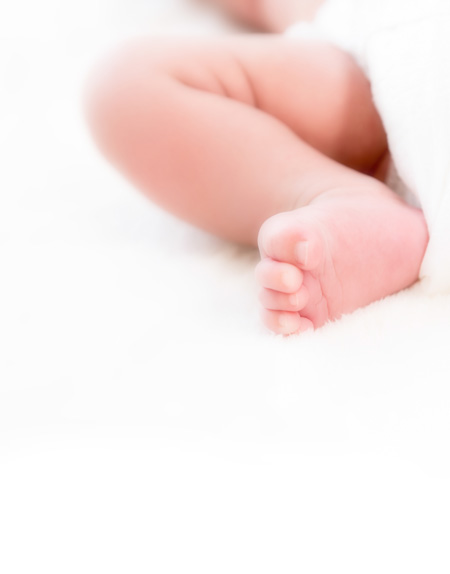
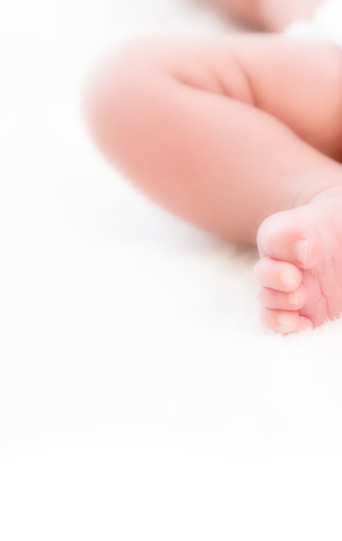
client req changes

Changed region(s): [[0.1754, 0.0, 1.0, 0.6211]]

diff --git a/resources/assets/sass/front/pages/_home.scss b/resources/assets/sass/front/pages/_home.scss
@@ -1,13 +1,14 @@
 .home-banner {
   background-image: url(./images/banner.jpg);
-  background-size: cover;
+  background-size: auto;
+  background-repeat: no-repeat;
+  background-position-y: 0;
+  background-position-x: 100%;
 
   @include respond-to(small) {
     background-image: url(./images/banner_mobile.jpg);
-    background-size: auto;
-    background-repeat: no-repeat;
     background-position-y: 60px;
-    background-position-x: -230%;
+    background-position-x: 100%;
   }
 }
 

diff --git a/resources/views/front/testimonials/page.blade.php b/resources/views/front/testimonials/page.blade.php
@@ -14,14 +14,14 @@
 
 @section('content')
     <h2 class="f2 f1-ns colour-p strong-type tc mt5 mb2 ttu">Testimonials</h2>
-    <p class="ph3 body-type b colour-p tc f5 f4-ns mt4">I could not be more proud and thankful of my clients!</p>
+    <p class="w-90 mw8 center lh-copy body-type b colour-p tc f5 f4-ns mt4">It is an honour and a privilege to be invited to share in the precious time of preparing for birth and parenthood with parents.  Thank you to my valued clients for sharing your thoughts on my involvement in your preparation for all things birth and beyond!</p>
     <article class="fade-in-up an-del1 mv4 w-90 mw8 center pa4 bgc-light body-type flex">
-        <div class="dn w-40 flex-ns justify-center items-center">
+        <div class="dn w-40 flex-ns justify-center items-start pt2">
             <img src="/images/testimonials.jpg" alt="A client in the birthing process" width="400px" class="db center">
         </div>
         <div class="w-100 w-60-ns pl0 pl4-ns flex-auto">
-            <p class="colour-p f5 f4-ns lh-copy mt0">We highly recommend Melody. She is an incredible doula who genuinely cares for others and wants to help families to have their wishes for their pregnancy and birth become a reality.</p>
-            <p class="colour-p f5 f4-ns lh-copy i tr mb0">&mdash; Tracy and Rob Oliver</p>
+            <p class="colour-p f5 f4-ns lh-copy mt0">I cannot recommend Mel highly enough. She enabled us to have the most positive birth after having had a previously traumatic experience. Mel is extremely knowledgeable, experienced and committed. During our 3-day labour at home she provided the support that both my husband and I needed giving us the faith to go on. Mel was hands on with practical help and most memorably coached my husband giving him the confidence and knowledge to support me perfectly throughout. I credit Mel with enabling us to have a wonderful home water birth after previous caesarean and what we believed was the best start to life for our son.</p>
+            <p class="colour-p f5 f4-ns lh-copy i tr mb0">&mdash; Angela Holmes</p>
         </div>
     </article>
     <article class="fade-in-up an-del2 mv4 w-90 mw8 center pa4 bgc-light body-type">
@@ -45,8 +45,8 @@
         <p class="colour-p f5 f4-ns lh-copy i tr mb0">&mdash; CF</p>
     </article>
     <article class="fade-in-up an-del7 mv4 w-90 mw8 center pa4 bgc-light body-type">
-        <p class="colour-p f5 f4-ns lh-copy mt0">I cannot recommend Mel highly enough. She enabled us to have the most positive birth after having had a previously traumatic experience. Mel is extremely knowledgeable, experienced and committed. During our 3-day labour at home she provided the support that both my husband and I needed giving us the faith to go on. Mel was hands on with practical help and most memorably coached my husband giving him the confidence and knowledge to support me perfectly throughout. I credit Mel with enabling us to have a wonderful home water birth after previous caesarean and what we believed was the best start to life for our son.</p>
-        <p class="colour-p f5 f4-ns lh-copy i tr mb0">&mdash; Angela Holmes</p>
+        <p class="colour-p f5 f4-ns lh-copy mt0">We highly recommend Melody. She is an incredible doula who genuinely cares for others and wants to help families to have their wishes for their pregnancy and birth become a reality.</p>
+        <p class="colour-p f5 f4-ns lh-copy i tr mb0">&mdash; Tracy and Rob Oliver</p>
     </article>
     <article class="fade-in-up an-del8 mt4 w-90 mw8 center pa4 bgc-light body-type mb6">
         <p class="colour-p f5 f4-ns lh-copy mt0">Mel was with us for approximately 40 hours over ten days.  She was always at the end of the phone if I needed her - which was a lot! Not just with breastfeeding, but with everything that came with becoming a mum again. Helping me soon after the twins were born, through the baby blues, making sure I ate properly, being an advocate for me, helping me to focus on positives, generally lifting my spirits - the list goes on and on! She counselled me through those first weeks with the twins in so many ways, and we had some lovely chats and giggles along the way too!    My advice to you would be to get Mel on board.</p>

diff --git a/resources/views/front/about/page.blade.php b/resources/views/front/about/page.blade.php
@@ -14,10 +14,10 @@
 
 @section('content')
     <h2 class="f2 f1-ns colour-p strong-type tc mv5 ttu">My Story</h2>
-    <p class="body-type lh-copy colour-p f5 f4-ns mw7 center ph3 ph0-ns">In 2003 my eldest daughter was born. I found her birth to be an overwhelming and heavily medicalised experience which didn’t get any easier in the following months. Healing from a traumatic birth experience whilst caring for a ‘high-needs’ baby was exhausting! I became acutely aware of just how important information, rather than advice, and emotional support at this time of transition and adjustment are, especially in the months leading up to the birth.</p>
+    <p class="body-type lh-copy colour-p f5 f4-ns mw7 center ph3 ph0-ns">In 2003 my eldest daughter was born. I found her birth and early days an overwhelming and heavily medicalised experience which didn’t get any easier in the following months. Healing from a traumatic birth experience whilst caring for a ‘high-needs’ baby was exhausting! I became acutely aware of just how important information, rather than advice, and emotional support at this time of transition and adjustment are, in the months leading up to the birth and in the birthing process.</p>
     <p class="body-type lh-copy colour-p f5 f4-ns mw7 center ph3 ph0-ns">On completion of my nursing qualification in 2004, among other things I worked as a childbirth educator and doula for an independent midwife practice in South Africa.</p>
     <p class="body-type lh-copy colour-p f5 f4-ns mw7 center ph3 ph0-ns">In 2010 I moved to the UK and in 2012 my second daughter was born. I was well informed and thoroughly prepared to ensure I experienced an empowering labour and birth experience. Breastfeeding however, was far from easy and the impact of family and familiar support networks being far away confirmed for me the need for postnatal support – not only for new families but growing families too.</p>
-    <p class="body-type lh-copy colour-p f5 f4-ns mw7 center ph3 ph0-ns">After much reflection I realised that providing information in a supportive and empowering manner in a full-time capacity is what is most important to me, and I decided to re-train specifically to work with women (and their partners) at this exciting – sometimes overwhelming, time in their lives.</p>
+    <p class="body-type lh-copy colour-p f5 f4-ns mw7 center ph3 ph0-ns">After much reflection I realised that providing information in a supportive and empowering manner in a full-time capacity is what is most important to me, and I decided to re-train specifically to work with women (and their partners) at this exciting – sometimes overwhelming &mdash; time in their lives.</p>
     <p class="ph3 ph0-ns strong-type mw7 colour-p center f4 f3-ns mt5">Record of Continuing Professional Development</p>
     <ul class="ph3 pl3-ns pr0-ns mw7 center pl0 tl body-type f5 f4-ns colour-p lh-copy education-list">
         <li class="mb2 mb0-ns">2013 VRQ level 2 in Mental Health Awareness</li>

diff --git a/resources/views/front/home/services.blade.php b/resources/views/front/home/services.blade.php
@@ -1,6 +1,6 @@
 <section class="bgc-dark pt4 flex flex-column justify-center items-center">
     <h1 class="f2 f1-ns tc colour-w ttu strong-type mb4">Services</h1>
-    <p class="colour-w body-type w-80 f4 lh-copy mw7 tc">I offer a range of services to parents wanting support and information on their journey to parenthood – in pregnancy, birth and beyond.</p>
+    <p class="colour-w body-type w-80 f4 lh-copy mw7 tc">I offer a range of services aimed at enabling a positive birth experience and continuity of care in pregnancy, birth and beyond.</p>
     <ul class="list ph2 ph0-ns body-type mb5">
         <li class="mv3 bgc-dark-soft pv3 ph4 br2">
             @include('svgicons.heart', ['classes' => 'db center mb2'])
@@ -10,12 +10,12 @@
         <li class="mv3 bgc-dark-soft pv3 ph4 br2">
             @include('svgicons.heart', ['classes' => 'db center mb2'])
             <p class="tc f3 b ma0 colour-w">Birth and Postnatal Doula</p>
-            <p class="colour-w tc">Providing emotional and practical support on a one-to-one basis</p>
+            <p class="colour-w tc">Providing one-to-one emotional and practical support.</p>
         </li>
         <li class="mv3 bgc-dark-soft pv3 ph4 br2">
             @include('svgicons.heart', ['classes' => 'db center mb2'])
-            <p class="tc f3 b ma0 colour-w">BFI accredited Breastfeeding Counsellor</p>
-            <p class="colour-w tc">Offering information and support on infant feeding</p>
+            <p class="tc f3 b ma0 colour-w">Breastfeeding Counsellor</p>
+            <p class="colour-w tc">Supporting parents in-person and on skype consultations, with specialist breastfeeding knowledge and training (<a class="link colour-w hov-s underline" href="https://www.unicef.org.uk/babyfriendly/what-is-baby-friendly/" target="_blank">accredited with BFI</a>)</p>
         </li>
         <li class="mv3 bgc-dark-soft pv3 ph4 br2">
             @include('svgicons.heart', ['classes' => 'db center mb2'])
@@ -25,8 +25,8 @@
         <li class="mv3 bgc-dark-soft pv3 ph4 br2">
             @include('svgicons.heart', ['classes' => 'db center mb2'])
             <p class="tc f3 b ma0 colour-w">Twins Maternity Nurse</p>
-            <p class="colour-w tc">Nurturing and empowering parents to the best start possible on their journey.</p>
+            <p class="colour-w tc">Nurturing and empowering families to make the best start possible on their twin-parenting journey (OFSTED registered).</p>
         </li>
     </ul>
-    <a href="/contact" class="hov-s ph4 pv2 ba br3 bw2 colour-w f4 f3-ns link strong-type ttu mb5">Let's Start Something</a>
+    <a href="/contact" class="hov-s ph4 pv2 ba br3 bw2 colour-w f4 f3-ns link strong-type ttu mb5">Contact Me</a>
 </section>

diff --git a/resources/views/front/home/story.blade.php b/resources/views/front/home/story.blade.php
@@ -1,6 +1,16 @@
 <section class="pv4 flex flex-column items-center">
-    <h3 class="strong-type f2 f1-ns tc colour-p ttu">My Story</h3>
+    <h3 class="strong-type f2 f1-ns tc colour-p ttu">About Me</h3>
     <img src="/images/mel_and_girls.jpg" alt="Mel and her girls" class="mw-100 db center mt3 mb5">
-    <p class="measure-wide lh-copy colour-p tc center body-type f4 ph3">A mum to two amazing girls, and an Advanced Birth & Beyond practitioner (UoW) with a background in Nursing and Complimentary Therapies, I been working with families as a doula and childbirth educator since 2005.  My commitment to promoting, and improving, positive birth and parenting experiences has resulted in continual learning and research into birth trauma, perinatal mental health and the integral role this plays in early childhood development.</p>
-    <a href="/about" class="hov-s ph4 pv2 ba br3 bw2 colour-p f4 f3-ns link strong-type ttu mv5">More About Mel</a>
+    <p class="measure-wide lh-copy colour-p tc center body-type f4 ph3">I am a mum.  I am also a fully qualified Advanced Birth & Beyond practitioner (University of Worcester), with a background in nursing and complementary therapies, and have worked with families as a doula and childbirth educator since 2005.  I am committed to promoting and facilitating positive birth and parenting experiences.  This has motivated my continued research into practices and circumstances that impact birthing and early parenting experiences, including birth trauma and perinatal mental health.  Birthing approaches and resultant situations play an integral role in influencing early childhood development and infant-parent bonding.</p>
+    <p class="f4 f3-ns strong-type colour-p ttu">Qualifications</p>
+    <ul class="ph3 pl3-ns pr0-ns mw7 center pl0 tl body-type f5 f4-ns colour-p lh-copy education-list">
+        <li class="mb2 mb0-ns">2013 VRQ level 2 in Mental Health Awareness</li>
+        <li class="pl2 mb2 mb0-ns">2014 Understanding and Using Rebozo Techniques</li>
+        <li class="pl2 mb2 mb0-ns">2015 Introduction to Men, Love and Birth</li>
+        <li class="pl2 mb2 mb0-ns">2016 Paediatric First Aid</li>
+        <li class="pl2 mb2 mb0-ns">2016 Birth Trauma</li>
+        <li class="pl2 mb2 mb0-ns">2016 Physical Skills</li>
+        <li class="pl2 mb2 mb0-ns">2016 Introducing Solids</li>
+    </ul>
+    <a href="/about" class="hov-s ph4 pv2 ba br3 bw2 colour-p f4 f3-ns link strong-type ttu mv5">My Story</a>
 </section>

diff --git a/resources/views/front/home/banner.blade.php b/resources/views/front/home/banner.blade.php
@@ -1,7 +1,6 @@
 <section class="home-banner flex flex-column justify-center items-center pt6 pb4 ph3">
-    <img class="mt-3 mt5-ns" width="300px" src="/images/logos/logo_full.svg" alt="Birth and Beyond Logo with text">
+    <img class="mt-3 mt4-ns" width="450px" src="/images/logos/logo_full.svg" alt="Birth and Beyond Logo with text">
     <p class="strong-type mt5 mb1 f1 colour-p ttu">Welcome</p>
-    <p class="strong-type ma0 f3 f2-ns f2 colour-p tc o-90">and congratulations…</p>
-    <p class="body-type measure-wide f4 lh-copy tc mt4 mb5 colour-p">When a woman feels empowered in her birth experience and has continuity of care during her transition to motherhood, this has a positive impact on her health and wellbeing – as well as on her relationship with her baby.</p>
+    <p class="body-type measure-wide f4 lh-copy tc mt4 mb5 colour-p">Seeking information and support in the transition to parenthood is a critical step in ensuring your health and wellbeing – and that of your baby’s – throughout this life-changing journey, in pregnancy, birth and beyond.</p>
     @include('svgicons.down_arrow', ['classes' => 'bobby'])
 </section>

diff --git a/resources/views/front/home/mission-statement.blade.php b/resources/views/front/home/mission-statement.blade.php
@@ -1,5 +1,5 @@
 <section class="bgc-dark pt4 pb0 ph4 flex flex-column justify-center items-center relative">
     <h3 class="strong-type f2 f1-ns tc colour-w ttu">Mission Statement</h3>
-    <p class="measure-wide f4 mb5 center colour-w tc body-type lh-copy">I strongly believe that every woman should have the information, and be supported in their decisions, to experience birth and motherhood in a way that they choose.  I hope to support women, and advocate their individual decisions on what they feel is best for them, and their families, based on their personal circumstances and the information available.</p>
+    <p class="measure-wide f4 mb5 center colour-w tc body-type lh-copy">I aim to support women by upholding their birthing and parenting decisions, based on their personal circumstances and relevant information, to ensure the best possible outcomes for them.  This support will assist them to translate their hopes and desires into memorable, lived experiences.</p>
     <img src="/images/logos/logo_white_icon.svg" alt="Background watermark logo" class="absolute right-0-ns pr4-ns z-0 o-10 w-60 w-25-ns top-20">
 </section>

diff --git a/resources/views/front/home/testimonial.blade.php b/resources/views/front/home/testimonial.blade.php
@@ -1,7 +1,7 @@
 <section class="pv4 ph3">
     <h3 class="strong-type f2 f1-ns tc colour-p ttu">Testimonial</h3>
-    <p class="measure-wide lh-copy colour-p tc center body-type f4">Melody was kind, empathetic, well-informed, supportive, compassionate, open-minded, strong, readily available and intuitive to my needs.  I would absolutely recommend her to any expectant parents wanting a doula.</p>
-    <p class="measure-wide lh-copy colour-p center body-type f4 tr i">&mdash; Emily Deckers</p>
+    <p class="measure-wide lh-copy colour-p tc center body-type f4">We feel very fortunate that Mel was our doula and recommend her to anyone looking for a knowledgeable, reliable, friendly and positive support person for your antenatal, birth or post‐natal care.</p>
+    <p class="measure-wide lh-copy colour-p center body-type f4 tr i">&mdash; Dr Pegine Walrad and Dr Robert Rothenberg</p>
     <div class="tc mv5">
         <a href="/testimonials" class="hov-s ph4 pv2 ba br3 bw2 colour-p f4 f3-ns link strong-type ttu mt5">More Testimonials</a>
     </div>

diff --git a/resources/views/front/contact/page.blade.php b/resources/views/front/contact/page.blade.php
@@ -14,7 +14,7 @@
 
 @section('content')
     <h2 class="f2 f1-ns colour-p strong-type tc mv5 ttu">Get In Touch</h2>
-    <p class="mv4 colour-p b f5 f4-ns tc ph3 body-type">Send us a message to set up a free appointment now.</p>
+    <p class="mv4 colour-p b f5 f4-ns tc ph3 body-type">Send me a message to set up a free appointment now.</p>
     <form action="/contact" method="POST" class="w-90 mw6 center">
         {!! csrf_field() !!}
         <div class="{{ $errors->has('name') ? ' has-error' : '' }} mv3">
@@ -49,6 +49,6 @@
             <button type="submit" class="ph4 pv2 ba br3 bw2 colour-p f4 f3-ns hov-s strong-type ttu bgc-white bdc-p">Send Message</button>
         </div>
     </form>
-    <p class="mv4 colour-p f4 f3-ns tc ph3 body-type b">Alternatively, please feel free to email</p>
+    <p class="mv4 colour-p f4 f3-ns tc ph3 body-type b">Alternatively, please email me at:</p>
     <p class="mt4 mb5 colour-p f5 f4-ns tc ph3 body-type">hello@allthingsbirthandbeyond.co.uk</p>
 @endsection

diff --git a/resources/views/front/partials/footer.blade.php b/resources/views/front/partials/footer.blade.php
@@ -8,6 +8,12 @@
         </div>
         <p class="body-type colour-w f5">hello@allthingsbirthandbeyond.co.uk</p>
         <p class="body-type colour-w f5">Tel: 05 76692 883</p>
+        <p class="body-type colour-w f5 mt4">Company Information</p>
+        <p class="body-type colour-w f6">Registered Head Office</p>
+        <p class="body-type colour-w f6">47 St Aelreds Mews, York, England, YO31 ORW</p>
+        <p class="body-type colour-w f6">Registered in England and Wales</p>
+        <p class="body-type colour-w f6">Registration number: 10901143</p>
+
     </div>
     <div class="dn pr5 tr flex-ns flex-column justify-center items-center">
         <img src="/images/logos/logo_full_white.svg" width="400" alt="Birth and Beyond Logo" class="o-10">

diff --git a/resources/views/front/home/did-you-know.blade.php b/resources/views/front/home/did-you-know.blade.php
@@ -1,7 +1,7 @@
 <section class="db flex-ns">
     <div class="w-100 w-50-ns pt4">
         <h2 class="mb5 f2 f1-ns tc colour-p ttu strong-type">Did You Know?</h2>
-        <p class="body-type colour-p f4 tc mb4 b">It has been shown that women supported by a doula had: </p>
+        <p class="body-type colour-p f4 tc mb4 b">Doula involvement in pregnancy, birth and beyond has had these positive outcomes:</p>
         <ul class="list pl0">
             <li class="tc mb3 mb4-ns">
                 <p class="strong-type f4 f3-ns mv2 colour-p">34%</p>

diff --git a/resources/views/front/home/pullquote.blade.php b/resources/views/front/home/pullquote.blade.php
@@ -1,3 +1,3 @@
 <section class="flex flex-column items-center bgc-dark pv5">
-    <p class="colour-w f2 body-type measure-narrow lh-copy tc">Working together supports good health and wellbeing for everyone.</p>
+    <p class="colour-w f2 body-type measure-narrow lh-copy tc">Continuity of care enhances good health and wellbeing for everyone.</p>
 </section>
